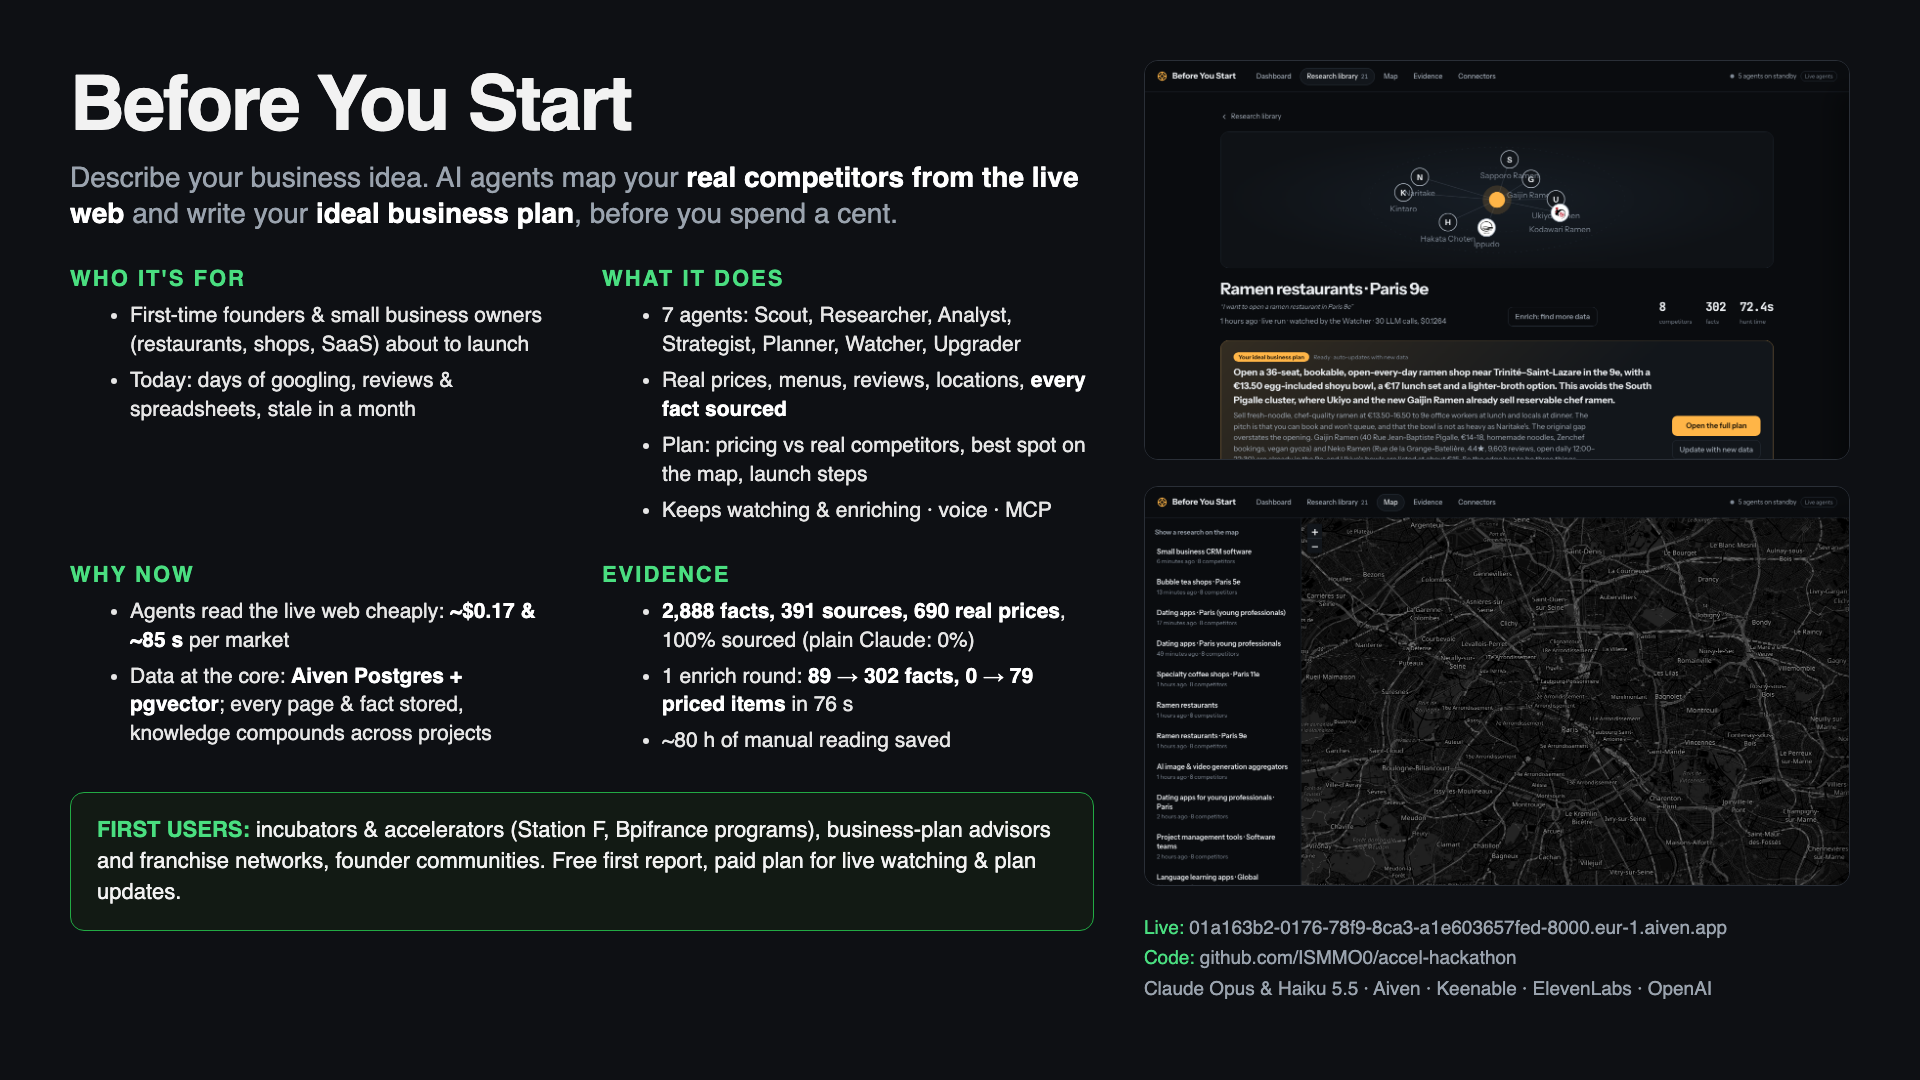
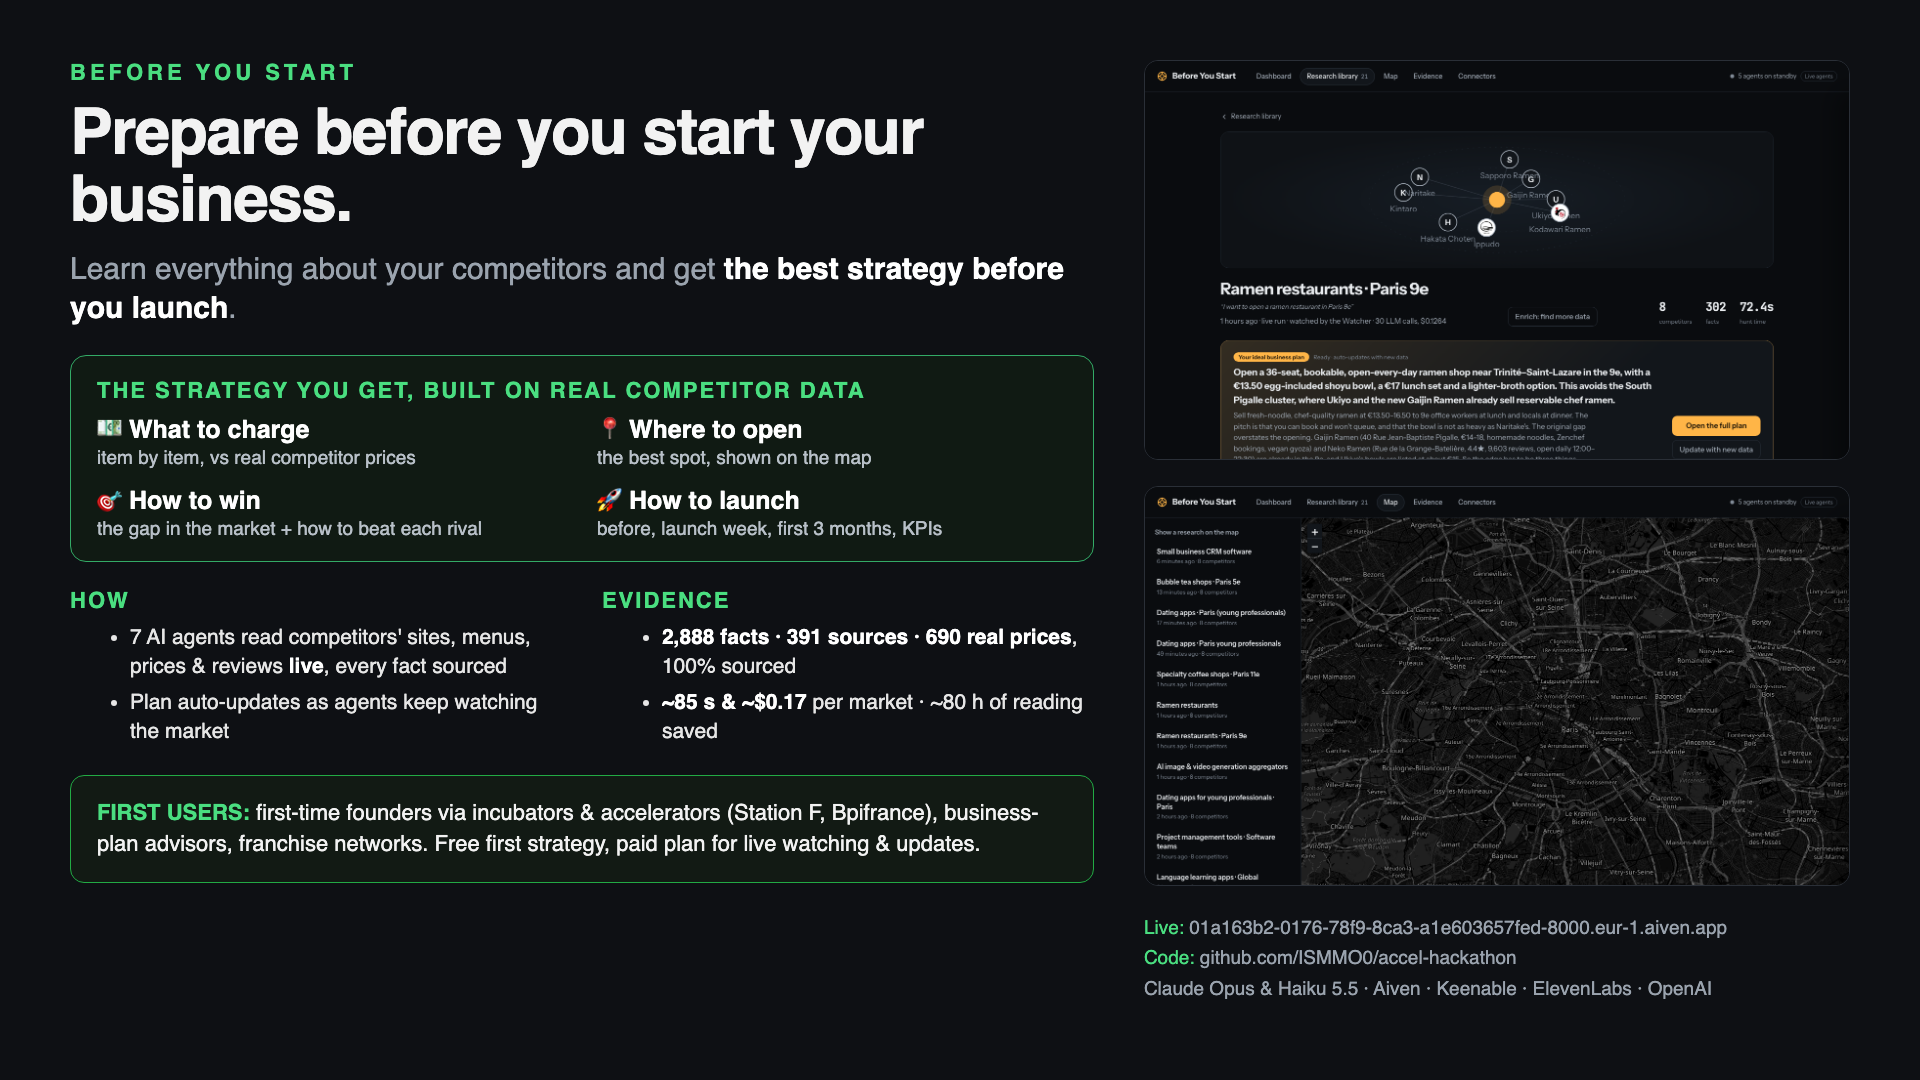
Pitch slide: lead with preparing and the launch strategy

diff --git a/docs/pitch.html b/docs/pitch.html
@@ -1,20 +1,25 @@
 <!doctype html><html><head><meta charset="utf-8"><style>
 *{box-sizing:border-box;margin:0}body{width:1920px;height:1080px;background:#0e1014;color:#f2f2f2;font-family:-apple-system,Helvetica,Arial,sans-serif;padding:60px 70px;display:grid;grid-template-columns:1.45fr 1fr;gap:50px}
-h1{font-size:76px;letter-spacing:-2px}.sub{font-size:28px;color:#9aa3ae;margin:12px 0 34px;line-height:1.3}
+h1{font-size:64px;letter-spacing:-1.5px;line-height:1.05}.kick{color:#4ade80;font-weight:800;letter-spacing:4px;font-size:22px;margin-bottom:14px}.sub{font-size:30px;color:#9aa3ae;margin:16px 0 28px;line-height:1.3}.strat{border:1px solid #3a6;background:#101a13;border-radius:16px;padding:22px 26px;margin-bottom:26px}.sg{display:grid;grid-template-columns:1fr 1fr;gap:16px 30px}.sg b{display:block;font-size:25px}.sg span{font-size:19px;color:#b8c0c8}
 .g{display:grid;grid-template-columns:1fr 1fr;gap:30px 40px}h3{color:#4ade80;font-size:22px;letter-spacing:2px;margin-bottom:10px}
 li{font-size:21px;line-height:1.38;margin:0 0 7px 20px;color:#e6e6e6}b{color:#fff}
-.first{margin-top:30px;padding:22px 26px;border:1px solid #2a4;border-radius:14px;font-size:22px;line-height:1.4;background:#121a14}
+.first{margin-top:22px;padding:22px 26px;border:1px solid #2a4;border-radius:14px;font-size:22px;line-height:1.4;background:#121a14}
 img{width:100%;height:400px;object-fit:cover;object-position:top;border-radius:14px;border:1px solid #2a2f37;margin-bottom:22px}.links{font-size:19px;color:#9aa3ae;line-height:1.6}.links span{color:#4ade80}
 </style></head><body><div>
-<h1>Before You Start</h1>
-<div class="sub">Describe your business idea. AI agents map your <b>real competitors from the live web</b> and write your <b>ideal business plan</b>, before you spend a cent.</div>
+<div class="kick">BEFORE YOU START</div>
+<h1>Prepare before you start your business.</h1>
+<div class="sub">Learn everything about your competitors and get <b>the best strategy before you launch</b>.</div>
+<div class="strat"><h3>THE STRATEGY YOU GET, BUILT ON REAL COMPETITOR DATA</h3><div class="sg">
+<div><b>💶 What to charge</b><span>item by item, vs real competitor prices</span></div>
+<div><b>📍 Where to open</b><span>the best spot, shown on the map</span></div>
+<div><b>🎯 How to win</b><span>the gap in the market + how to beat each rival</span></div>
+<div><b>🚀 How to launch</b><span>before, launch week, first 3 months, KPIs</span></div>
+</div></div>
 <div class="g">
-<div><h3>WHO IT'S FOR</h3><ul><li>First-time founders & small business owners (restaurants, shops, SaaS) about to launch</li><li>Today: days of googling, reviews & spreadsheets, stale in a month</li></ul></div>
-<div><h3>WHAT IT DOES</h3><ul><li>7 agents: Scout, Researcher, Analyst, Strategist, Planner, Watcher, Upgrader</li><li>Real prices, menus, reviews, locations, <b>every fact sourced</b></li><li>Plan: pricing vs real competitors, best spot on the map, launch steps</li><li>Keeps watching & enriching · voice · MCP</li></ul></div>
-<div><h3>WHY NOW</h3><ul><li>Agents read the live web cheaply: <b>~$0.17 & ~85 s</b> per market</li><li>Data at the core: <b>Aiven Postgres + pgvector</b>; every page & fact stored, knowledge compounds across projects</li></ul></div>
-<div><h3>EVIDENCE</h3><ul><li><b>2,888 facts, 391 sources, 690 real prices</b>, 100% sourced (plain Claude: 0%)</li><li>1 enrich round: <b>89 → 302 facts, 0 → 79 priced items</b> in 76 s</li><li>~80 h of manual reading saved</li></ul></div>
+<div><h3>HOW</h3><ul><li>7 AI agents read competitors' sites, menus, prices & reviews <b>live</b>, every fact sourced</li><li>Plan auto-updates as agents keep watching the market</li></ul></div>
+<div><h3>EVIDENCE</h3><ul><li><b>2,888 facts · 391 sources · 690 real prices</b>, 100% sourced</li><li><b>~85 s & ~$0.17</b> per market · ~80 h of reading saved</li></ul></div>
 </div>
-<div class="first"><b style="color:#4ade80">FIRST USERS:</b> incubators & accelerators (Station F, Bpifrance programs), business-plan advisors and franchise networks, founder communities. Free first report, paid plan for live watching & plan updates.</div>
+<div class="first"><b style="color:#4ade80">FIRST USERS:</b> first-time founders via incubators & accelerators (Station F, Bpifrance), business-plan advisors, franchise networks. Free first strategy, paid plan for live watching & updates.</div>
 </div><div>
 <img src="images/report.png"><img src="images/map.png">
 <div class="links"><span>Live:</span> 01a163b2-0176-78f9-8ca3-a1e603657fed-8000.eur-1.aiven.app<br><span>Code:</span> github.com/ISMMO0/accel-hackathon<br>Claude Opus & Haiku 5.5 · Aiven · Keenable · ElevenLabs · OpenAI</div>
